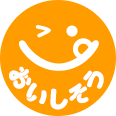
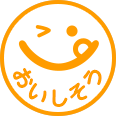
2016/12/09　美味しそうボタン

diff --git a/sp/css/sp/school.css b/sp/css/sp/school.css
@@ -8,13 +8,18 @@ html { background:#FFFFFF; }
 	position: relative;
 	width: 280px;
 	height: 280px;
-}.btnOverlay .btnOverLayBody{
+}
+.btnOverlay .btnOverLayBody{
 	position: absolute;
-	top: 10px;
+	top: 240px;
 	right: 10px;
 	width: 50px;
-	font-size: xx-small;
-	color: #ee7d00;
+}
+.btnOverlay .btnOverLayBody p{
+	margin-top: 5px;
+	text-align: center;
+	font-size: x-small;
+	font-weight: bold;
 }
 .btnOverlay .delicious_off{
 	width: 50px;
@@ -275,7 +280,7 @@ div#footerArea li.commentBtn a {
 ===================================*/
 #school #top .photo{
 	width: 280px;
-	height: 280px;
+	height: 300px;
 	margin-bottom: 10px;
 	margin-left:auto;
 	margin-right:auto;
@@ -518,6 +523,8 @@ div#footerArea li.commentBtn a {
 
 
 #school #top .recipetxt p{
+	width: 90%;
+	margin: 0 auto;
 	padding:10px;
     font-size: 15px;
 }

diff --git a/sp/recipe-default.html b/sp/recipe-default.html
@@ -149,6 +149,7 @@ ks.stop(true,false).toggle();
   <a href="/image/upload/recipe/00/00/01/89/74_20150902185254.JPG" class="colorbox"><img src="https://cookingschool.jp/image/cache/image/upload/recipe/00/00/01/89/280x280_74_20150902185254.png" id="picture" alt="海老の生ハム巻きフリット"></a>
   <div class="btnOverLayBody">
     <div class="delicious_off"></div>
+    <p>224</p>
     <!-- 美味しそう済：class="delicious_on" -->
   </div>
 </div>
